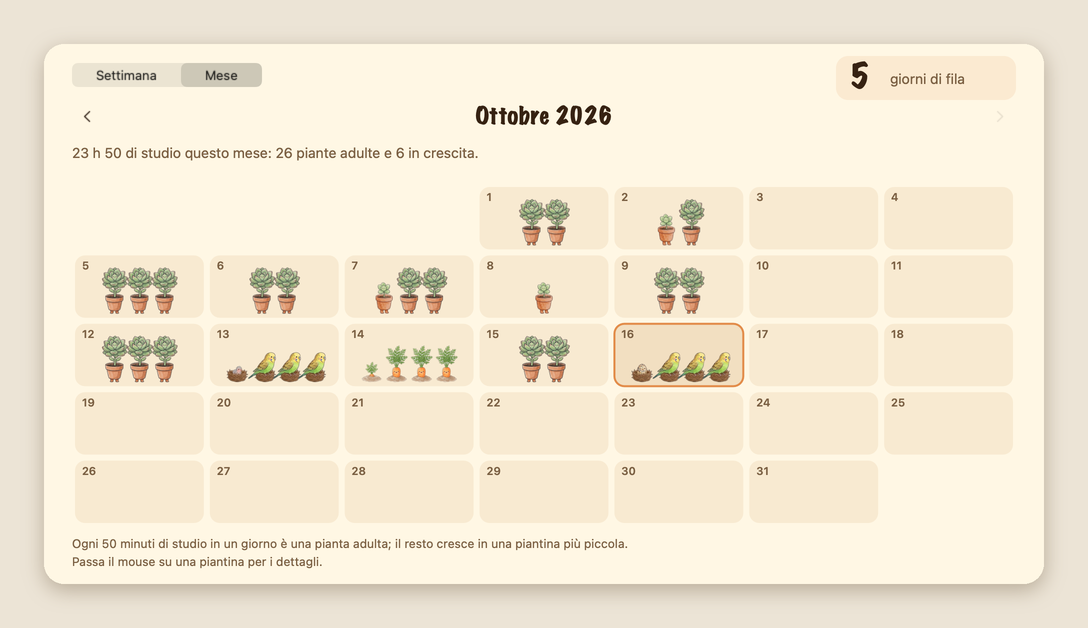
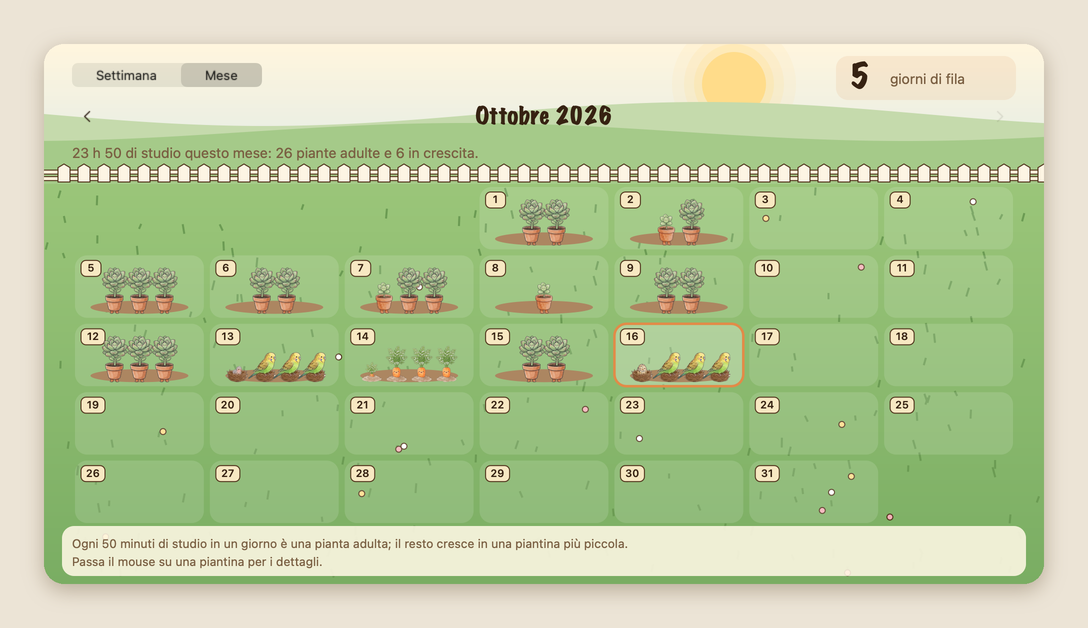
Il giardino e' un prato: cielo, sole, colline, staccionata, monticelli con i cartelli di legno
- settimana: un monticello di terra per giorno con il suo cartello (giorno e ore)
- mese: lo stesso prato con le caselle del calendario
- scena disegnata una volta e messa in cache; erba e fiori sempre negli stessi punti
- la legenda sta su una striscia di carta, leggibile sul prato

diff --git a/Sources/FocusFriends/GardenWindow.swift b/Sources/FocusFriends/GardenWindow.swift
@@ -31,6 +31,8 @@ final class GardenView: NSView, NSViewToolTipOwner {
         var extra: Int
         var isToday: Bool
         var anchor: NSPoint
+        /// Il giorno ha almeno una piantina (nel mese: serve un po' di terra sotto).
+        var hasPlants = false
     }
     private var plants: [Plant] = []
     private var beds: [Bed] = []
@@ -180,12 +182,12 @@ final class GardenView: NSView, NSViewToolTipOwner {
     private func layoutWeek(today: Date) {
         let m = Self.margin
         let columnWidth = (Self.size.width - 2 * m) / 7
-        let baseY: CGFloat = 340
-        let plantHeight: CGFloat = 112
+        let baseY: CGFloat = 392
+        let plantHeight: CGFloat = 124
         for i in 0..<7 {
             guard let dayStart = calendar.date(byAdding: .day, value: i, to: period.start) else { continue }
             let x0 = m + CGFloat(i) * columnWidth
-            let bedRect = NSRect(x: x0 + 5, y: baseY - 10, width: columnWidth - 10, height: 58)
+            let bedRect = NSRect(x: x0 + 8, y: baseY - 14, width: columnWidth - 16, height: 38)   // il monticello di terra
             let items = sessions(on: dayStart)
             let seconds = items.reduce(0) { $0 + $1.seconds }
             let all = GardenRules.plants(of: items, calendar: calendar)
@@ -199,7 +201,7 @@ final class GardenView: NSView, NSViewToolTipOwner {
             for (row, group) in [(1, back), (0, front)] {
                 for (k, plant) in group.enumerated() {
                     let cx = x0 + columnWidth / 2 + (CGFloat(k) - CGFloat(group.count - 1) / 2) * spacing
-                    let feetY = baseY + 16 - (row == 1 ? 46 : 0)
+                    let feetY = baseY + 6 - (row == 1 ? 36 : 0)
                     plants.append(Plant(
                         rect: plantRect(centerX: cx, feetY: feetY, height: plantHeight * (row == 1 ? 0.9 : 1)),
                         info: plant, day: dayStart, showsDot: row == 0
@@ -209,11 +211,12 @@ final class GardenView: NSView, NSViewToolTipOwner {
             beds.append(Bed(
                 rect: bedRect,
                 dayLabel: formatted(dayStart, "EEE d").lowercased(),
-                dayLabelPoint: NSPoint(x: x0 + columnWidth / 2, y: baseY + 66),
+                dayLabelPoint: NSPoint(x: x0 + columnWidth / 2, y: baseY + 30),
                 total: items.isEmpty ? nil : StudyStats.duration(seconds: seconds) + (extra > 0 ? " · +\(extra)" : ""),
                 extra: extra,
                 isToday: calendar.isDate(dayStart, inSameDayAs: today),
-                anchor: NSPoint(x: x0 + columnWidth / 2, y: baseY - 60)
+                anchor: NSPoint(x: x0 + columnWidth / 2, y: baseY - 60),
+                hasPlants: !all.isEmpty
             ))
         }
     }
@@ -249,7 +252,7 @@ final class GardenView: NSView, NSViewToolTipOwner {
             beds.append(Bed(
                 rect: cell.insetBy(dx: 3, dy: 3), dayLabel: "\(day)", dayLabelPoint: NSPoint(x: cell.minX + 10, y: cell.minY + 6),
                 total: nil, extra: max(all.count - shown.count, 0), isToday: calendar.isDate(dayStart, inSameDayAs: today),
-                anchor: NSPoint(x: cell.midX, y: cell.midY)
+                anchor: NSPoint(x: cell.midX, y: cell.midY), hasPlants: !all.isEmpty
             ))
         }
     }
@@ -282,6 +285,150 @@ final class GardenView: NSView, NSViewToolTipOwner {
         return head + " · " + state + (subjects.isEmpty ? "" : "\n" + subjects)
     }
 
+    // MARK: - La scena
+
+    /// Un generatore deterministico: l'erba e i fiori sono sempre negli stessi punti.
+    private struct SeededRandom {
+        var state: UInt64
+        mutating func next() -> CGFloat {
+            state = state &* 6364136223846793005 &+ 1442695040888963407
+            return CGFloat((state >> 33) & 0xFFFF) / 65535
+        }
+        mutating func range(_ a: CGFloat, _ b: CGFloat) -> CGFloat { a + (b - a) * next() }
+    }
+
+    private static var sceneCache: [PeriodKind: NSImage] = [:]
+
+    /// Il prato: cielo, sole e nuvole, colline, una staccionata e l'erba. Nel mese la scena è più bassa (il resto è
+    /// il calendario sul prato).
+    static func scene(for kind: PeriodKind) -> NSImage {
+        if let cached = sceneCache[kind] { return cached }
+        let image = NSImage(size: size, flipped: true) { rect in
+            drawScene(kind: kind, in: rect)
+            return true
+        }
+        sceneCache[kind] = image
+        return image
+    }
+
+    private static func rgb(_ r: CGFloat, _ g: CGFloat, _ b: CGFloat, _ a: CGFloat = 1) -> NSColor {
+        NSColor(calibratedRed: r / 255, green: g / 255, blue: b / 255, alpha: a)
+    }
+
+    private static func lerp(_ a: (CGFloat, CGFloat, CGFloat), _ b: (CGFloat, CGFloat, CGFloat), _ t: CGFloat) -> NSColor {
+        rgb(a.0 + (b.0 - a.0) * t, a.1 + (b.1 - a.1) * t, a.2 + (b.2 - a.2) * t)
+    }
+
+    private static func drawScene(kind: PeriodKind, in rect: NSRect) {
+        let w = rect.width, h = rect.height
+        let isWeek = kind != .month
+        // Dove finisce il cielo e comincia il prato.
+        let lawnTop: CGFloat = isWeek ? 300 : 140
+        let ink = rgb(64, 40, 22)
+        var rng = SeededRandom(state: 20261012)
+
+        // Il cielo: crema in alto, azzurro pallido verso l'orizzonte.
+        let skyHeight = lawnTop + 20
+        var y: CGFloat = 0
+        while y < skyHeight {
+            lerp((255, 243, 214), (207, 229, 226), y / skyHeight).setFill()
+            NSRect(x: 0, y: y, width: w, height: 4).fill()
+            y += 4
+        }
+
+        // Il sole (con un alone) e le nuvole
+        let sun = NSPoint(x: isWeek ? 735 : 690, y: isWeek ? 74 : 40)
+        for (r, a) in [(62, 0.10), (50, 0.16), (40, 0.28)] as [(CGFloat, CGFloat)] {
+            rgb(255, 214, 120, a).setFill()
+            NSBezierPath(ovalIn: NSRect(x: sun.x - r, y: sun.y - r, width: 2 * r, height: 2 * r)).fill()
+        }
+        rgb(255, 214, 120).setFill()
+        NSBezierPath(ovalIn: NSRect(x: sun.x - 32, y: sun.y - 32, width: 64, height: 64)).fill()
+        let clouds: [(CGFloat, CGFloat, CGFloat)] = isWeek ? [(120, 150, 1.0), (520, 168, 0.8), (905, 140, 0.9)] : [(110, 110, 0.7), (560, 118, 0.6)]
+        for (cx, cy, scale) in clouds {
+            rgb(255, 255, 255, 0.85).setFill()
+            for (dx, dy, r) in [(0, 0, 24), (26, 5, 20), (-26, 5, 18), (48, 11, 14), (-48, 11, 13)] as [(CGFloat, CGFloat, CGFloat)] {
+                NSBezierPath(ovalIn: NSRect(x: cx + dx * scale - r * scale * 1.3, y: cy + dy * scale - r * scale * 0.8,
+                                            width: 2.6 * r * scale, height: 1.6 * r * scale)).fill()
+            }
+        }
+
+        // Le colline
+        func hill(base: CGFloat, amp: CGFloat, phase: CGFloat, color: NSColor) {
+            let path = NSBezierPath()
+            path.move(to: NSPoint(x: 0, y: h))
+            var x: CGFloat = 0
+            while x <= w + 8 {
+                path.line(to: NSPoint(x: x, y: base + amp * sin(x / 140 + phase)))
+                x += 8
+            }
+            path.line(to: NSPoint(x: w, y: h))
+            path.close()
+            color.setFill()
+            path.fill()
+        }
+        hill(base: lawnTop - 130 + (isWeek ? 0 : 60), amp: isWeek ? 22 : 12, phase: 0, color: rgb(185, 212, 156))
+        hill(base: lawnTop - 94 + (isWeek ? 0 : 42), amp: isWeek ? 16 : 9, phase: 1.7, color: rgb(150, 193, 118))
+
+        // La staccionata (nel mese è bassa: sopra c'è il riepilogo, sotto il calendario)
+        let fenceHeight: CGFloat = isWeek ? 64 : 18
+        let fenceTop = lawnTop - fenceHeight - 2
+        let fenceBottom = lawnTop - 2
+        let railThickness: CGFloat = isWeek ? 8 : 4
+        let picketWidth: CGFloat = isWeek ? 18 : 12
+        let picketStep: CGFloat = isWeek ? 30 : 20
+        rgb(250, 238, 210).setFill()
+        ink.setStroke()
+        for rail in [fenceTop + fenceHeight * 0.34, fenceTop + fenceHeight * 0.70] {
+            let r = NSRect(x: -2, y: rail, width: w + 4, height: railThickness)
+            r.fill()
+            NSBezierPath(rect: r).stroke()
+        }
+        var x: CGFloat = 14
+        while x < w {
+            let picket = NSBezierPath()
+            picket.move(to: NSPoint(x: x, y: fenceTop + fenceHeight * 0.2))
+            picket.line(to: NSPoint(x: x + picketWidth / 2, y: fenceTop))
+            picket.line(to: NSPoint(x: x + picketWidth, y: fenceTop + fenceHeight * 0.2))
+            picket.line(to: NSPoint(x: x + picketWidth, y: fenceBottom))
+            picket.line(to: NSPoint(x: x, y: fenceBottom))
+            picket.close()
+            rgb(252, 243, 220).setFill()
+            picket.fill()
+            picket.lineWidth = 1
+            picket.stroke()
+            x += picketStep
+        }
+
+        // Il prato
+        var ly = lawnTop
+        while ly < h {
+            lerp((138, 188, 102), (104, 160, 80), (ly - lawnTop) / (h - lawnTop)).setFill()
+            NSRect(x: 0, y: ly, width: w, height: 4).fill()
+            ly += 4
+        }
+        rgb(90, 140, 66).setStroke()
+        for _ in 0..<220 {
+            let gx = rng.range(0, w), gy = rng.range(lawnTop + 10, h - 4)
+            let blade = NSBezierPath()
+            blade.move(to: NSPoint(x: gx, y: gy))
+            blade.line(to: NSPoint(x: gx + rng.range(-3, 3), y: gy - rng.range(5, 10)))
+            blade.lineWidth = 2
+            blade.stroke()
+        }
+        let flowerColors = [rgb(255, 255, 255), rgb(255, 214, 120), rgb(240, 160, 170)]
+        for i in 0..<(isWeek ? 34 : 18) {
+            let fx = rng.range(10, w - 10), fy = rng.range(lawnTop + 16, h - 10)
+            let petal = flowerColors[i % flowerColors.count]
+            petal.setFill()
+            let dot = NSBezierPath(ovalIn: NSRect(x: fx - 3, y: fy - 3, width: 6, height: 6))
+            dot.fill()
+            ink.setStroke()
+            dot.lineWidth = 1
+            dot.stroke()
+        }
+    }
+
     // MARK: - Disegno
 
     private func text(_ string: String, at rect: NSRect, font: NSFont, color: NSColor = Paper.ink, alignment: NSTextAlignment = .left) {
@@ -292,8 +439,7 @@ final class GardenView: NSView, NSViewToolTipOwner {
     }
 
     override func draw(_ dirtyRect: NSRect) {
-        Paper.paper.setFill()
-        bounds.fill()
+        Self.scene(for: kind).draw(in: bounds)
         let width = Self.size.width
         let m = Self.margin
 
@@ -318,35 +464,61 @@ final class GardenView: NSView, NSViewToolTipOwner {
         text(streak == 1 ? "giorno di fila" : "giorni di fila", at: NSRect(x: badge.minX + 54, y: badge.minY + 14, width: 120, height: 18),
              font: NSFont.systemFont(ofSize: 14), color: Paper.inkLight)
 
-        // Aiuole
+        // Monticelli di terra (settimana) o caselle del calendario sul prato (mese)
+        let soilFill = NSColor(calibratedRed: 0.61, green: 0.45, blue: 0.31, alpha: 1)
+        let outlineInk = NSColor(calibratedRed: 0.25, green: 0.16, blue: 0.09, alpha: 1)
         for bed in beds {
             if kind == .week {
-                let outline = NSBezierPath(roundedRect: bed.rect, xRadius: 14, yRadius: 14)
-                NSColor(calibratedRed: 0.93, green: 0.84, blue: 0.69, alpha: 1).setFill()
-                outline.fill()
-                (bed.isToday ? Paper.accent : Paper.paperEdge).setStroke()
-                outline.lineWidth = bed.isToday ? 2 : 1
-                outline.stroke()
-                let soil = NSRect(x: bed.rect.minX, y: bed.rect.minY + 26, width: bed.rect.width, height: 32)
-                NSColor(calibratedRed: 0.59, green: 0.44, blue: 0.31, alpha: 1).setFill()
-                NSBezierPath(roundedRect: soil, xRadius: 14, yRadius: 14).fill()
-                text(bed.dayLabel, at: NSRect(x: bed.dayLabelPoint.x - 60, y: bed.dayLabelPoint.y, width: 120, height: 26),
-                     font: Paper.markerFont(20), alignment: .center)
-                if let total = bed.total {
-                    text(total, at: NSRect(x: bed.dayLabelPoint.x - 60, y: bed.dayLabelPoint.y + 28, width: 120, height: 18),
-                         font: NSFont.systemFont(ofSize: 13), color: Paper.inkLight, alignment: .center)
-                }
+                let mound = NSBezierPath(ovalIn: bed.rect)
+                soilFill.setFill()
+                mound.fill()
+                (bed.isToday ? Paper.accent : outlineInk).setStroke()
+                mound.lineWidth = bed.isToday ? 3 : 2
+                mound.stroke()
+                // Il cartello di legno con il giorno e le ore, su un paletto.
+                let cx = bed.dayLabelPoint.x
+                let sign = NSRect(x: cx - 46, y: bed.dayLabelPoint.y, width: 92, height: 44)
+                outlineInk.setStroke()
+                let stake = NSBezierPath()
+                stake.move(to: NSPoint(x: cx, y: bed.rect.maxY - 6))
+                stake.line(to: NSPoint(x: cx, y: sign.minY + 2))
+                stake.lineWidth = 3
+                stake.stroke()
+                let tag = NSBezierPath(roundedRect: sign, xRadius: 8, yRadius: 8)
+                NSColor(calibratedRed: 0.96, green: 0.89, blue: 0.71, alpha: 1).setFill()
+                tag.fill()
+                (bed.isToday ? Paper.accent : outlineInk).setStroke()
+                tag.lineWidth = bed.isToday ? 2.5 : 1.5
+                tag.stroke()
+                text(bed.dayLabel, at: NSRect(x: sign.minX, y: sign.minY + 4, width: sign.width, height: 22),
+                     font: Paper.markerFont(17), alignment: .center)
+                text(bed.total ?? "—", at: NSRect(x: sign.minX, y: sign.minY + 26, width: sign.width, height: 16),
+                     font: NSFont.systemFont(ofSize: 11.5), color: Paper.inkLight, alignment: .center)
             } else {
-                let outline = NSBezierPath(roundedRect: bed.rect, xRadius: 10, yRadius: 10)
-                NSColor(calibratedRed: 0.93, green: 0.84, blue: 0.69, alpha: bed.isToday ? 0.9 : 0.5).setFill()
-                outline.fill()
+                let patch = NSBezierPath(roundedRect: bed.rect, xRadius: 12, yRadius: 12)
+                NSColor.white.withAlphaComponent(bed.isToday ? 0.30 : 0.13).setFill()
+                patch.fill()
                 if bed.isToday {
                     Paper.accent.setStroke()
-                    outline.lineWidth = 2
-                    outline.stroke()
+                    patch.lineWidth = 2.5
+                    patch.stroke()
                 }
-                text(bed.dayLabel, at: NSRect(x: bed.dayLabelPoint.x, y: bed.dayLabelPoint.y, width: 30, height: 14),
-                     font: NSFont.systemFont(ofSize: 11, weight: .semibold), color: Paper.inkLight)
+                let tag = NSRect(x: bed.rect.minX + 6, y: bed.rect.minY + 5, width: bed.dayLabel.count > 1 ? 24 : 20, height: 16)
+                let tagShape = NSBezierPath(roundedRect: tag, xRadius: 5, yRadius: 5)
+                NSColor(calibratedRed: 0.96, green: 0.89, blue: 0.71, alpha: 1).setFill()
+                tagShape.fill()
+                outlineInk.setStroke()
+                tagShape.lineWidth = 1
+                tagShape.stroke()
+                text(bed.dayLabel, at: NSRect(x: tag.minX, y: tag.minY + 1, width: tag.width, height: 14),
+                     font: NSFont.systemFont(ofSize: 10.5, weight: .semibold), color: Paper.ink, alignment: .center)
+                // Un po' di terra sotto le piantine del giorno.
+                if bed.hasPlants {
+                    let soil = NSBezierPath(ovalIn: NSRect(x: bed.rect.midX - bed.rect.width * 0.38, y: bed.rect.maxY - 17,
+                                                           width: bed.rect.width * 0.76, height: 13))
+                    soilFill.setFill()
+                    soil.fill()
+                }
             }
         }
         // Piantine: le dietro prima (sono all'inizio della lista della riga dietro), poi quelle davanti
@@ -371,6 +543,10 @@ final class GardenView: NSView, NSViewToolTipOwner {
             }
         }
         if adultPlants + growingPlants > 0 {
+            let strip = NSRect(x: m - 10, y: Self.size.height - 58, width: width - 2 * m + 20, height: 50)
+            let shape = NSBezierPath(roundedRect: strip, xRadius: 12, yRadius: 12)
+            Paper.paper.withAlphaComponent(0.88).setFill()
+            shape.fill()
             text("Ogni 50 minuti di studio in un giorno è una pianta adulta; il resto cresce in una piantina più piccola.",
                  at: NSRect(x: m, y: Self.size.height - 48, width: width - 2 * m, height: 18),
                  font: NSFont.systemFont(ofSize: 12), color: Paper.inkLight)
@@ -381,9 +557,12 @@ final class GardenView: NSView, NSViewToolTipOwner {
                  font: NSFont.systemFont(ofSize: 12), color: Paper.inkLight)
         }
         if adultPlants + growingPlants == 0 {
-            let y: CGFloat = kind == .week ? 220 : 300
-            text("Ancora nessuna piantina in questo periodo.", at: NSRect(x: m, y: y, width: width - 2 * m, height: 24),
-                 font: Paper.markerFont(20), color: Paper.inkLight, alignment: .center)
+            let y: CGFloat = kind == .week ? 350 : 330
+            let pill = NSRect(x: width / 2 - 240, y: y - 8, width: 480, height: 40)
+            Paper.paper.withAlphaComponent(0.9).setFill()
+            NSBezierPath(roundedRect: pill, xRadius: 14, yRadius: 14).fill()
+            text("Ancora nessuna piantina in questo periodo.", at: NSRect(x: pill.minX, y: y, width: pill.width, height: 24),
+                 font: Paper.markerFont(20), color: Paper.ink, alignment: .center)
         }
     }
 }

diff --git a/README.md b/README.md
@@ -241,8 +241,9 @@ adulta**. Quello che avanza cresce in una piantina allo stadio di mezzo (`Garden
 Per esempio 3 h 06 di studio in un giorno sono 186 minuti: **tre piante adulte** e una piantina allo stadio 4 (36
 minuti). I minuti riempiono una pianta dopo l'altra nell'ordine in cui li hai studiati, quindi la materia di ogni
 pianta (il pallino sotto il vaso) è quella che l'ha fatta crescere di più, e anche il personaggio è quello con cui
-l'hai fatta di più. La scheda *Settimana* ha un'aiuola per giorno (fino a sei piantine, poi "+N"; quella che cresce sta
-davanti); *Mese* è un calendario con le piantine di ogni giorno. Passando il mouse su una piantina compaiono il
+l'hai fatta di più. Il giardino è un prato con il cielo, il sole, le colline e una staccionata: la scheda *Settimana* ha un monticello
+di terra per giorno, con il suo cartello di legno (giorno e ore), fino a sei piantine, poi "+N"; quella che cresce sta
+davanti; *Mese* è lo stesso prato con le caselle del calendario. Passando il mouse su una piantina compaiono il
 giorno, i minuti e le materie. Si ricava tutto dal registro: compare subito anche per i focus già fatti. A fine
 focus il personaggio dice se è nata una pianta adulta o quanti minuti mancano alla prossima.
 
